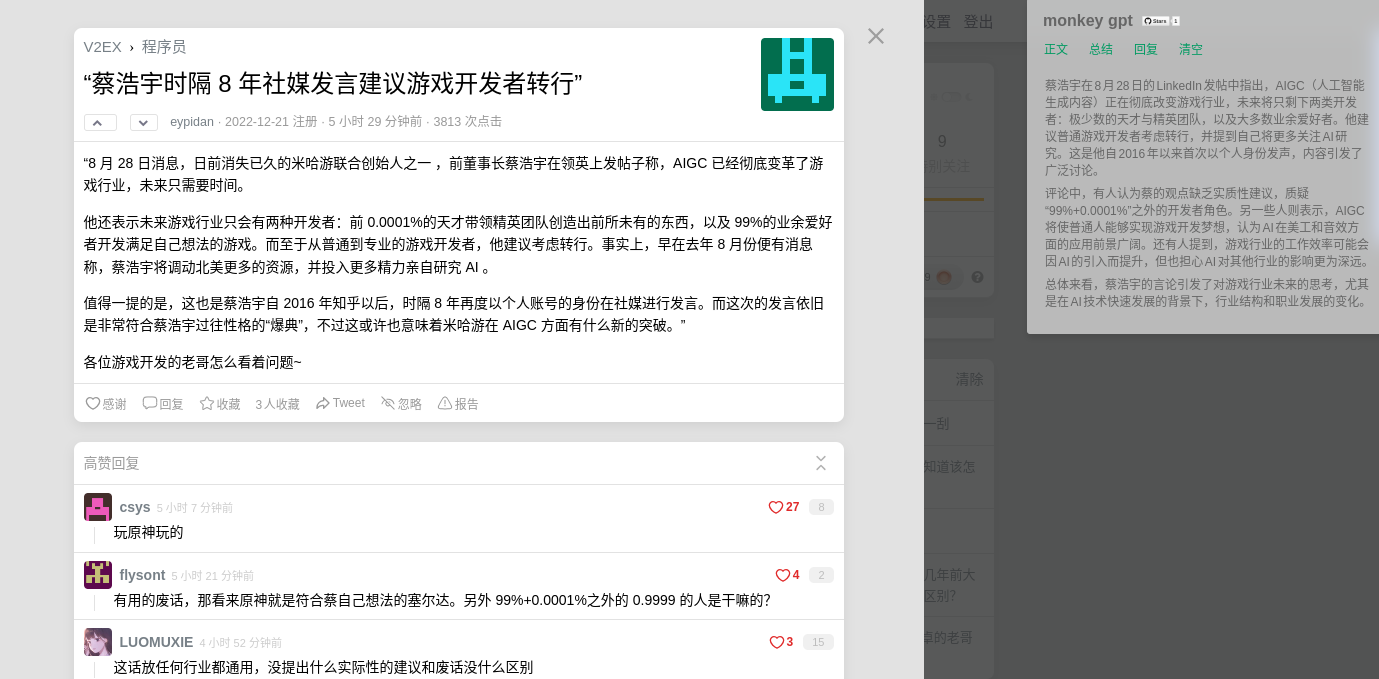
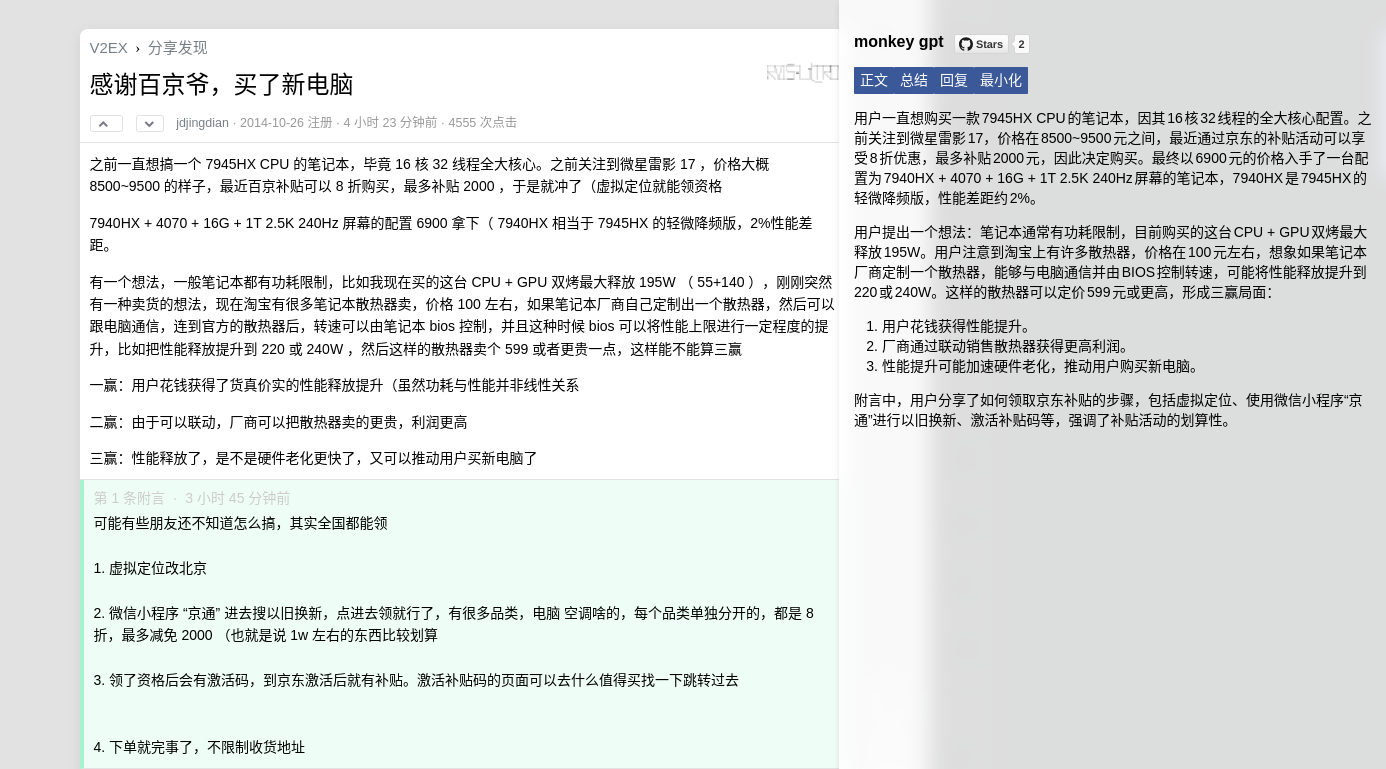
reface: style

diff --git a/script/monkey-gpt.script.user.js b/script/monkey-gpt.script.user.js
@@ -1,14 +1,12 @@
 // ==UserScript==
 // @name       monkey-gpt
 // @namespace  monkeygpt
-// @version    0.0.1
+// @version    0.0.2
 // @author     monkey
 // @icon       https://jisuai.cn/logo.png
 // @match      *://*/*
 // @require    https://cdn.jsdelivr.net/npm/vue@3.4.38/dist/vue.global.prod.js
 // @grant      GM_addStyle
-// @grant      GM_getValue
-// @grant      GM_setValue
 // ==/UserScript==
 
 (e => {
@@ -18,7 +16,7 @@
   }
   const t = document.createElement("style");
   t.textContent = e, document.head.append(t)
-})(" :root{font-synthesis:none;text-rendering:optimizeLegibility;-webkit-font-smoothing:antialiased;-moz-osx-font-smoothing:grayscale;-webkit-text-size-adjust:100%}#monkeygpt{max-width:360px;margin:0 auto;padding:1rem;position:fixed;top:0;right:0;z-index:10000;background:#fff9;-webkit-backdrop-filter:blur(10px);backdrop-filter:blur(10px);border-radius:.3rem;box-shadow:0 4px 6px #0000001a;color:#666;max-height:100vh;overflow:auto;box-sizing:border-box}#monkeygpt .loader{border:8px solid #f3f3f3;border-top:8px solid #3498db;border-radius:50%;width:60px;height:60px;animation:spin 1s linear infinite}#monkeygpt button{border:none;background:none;margin:0 7px 0 0;text-decoration:none;font-weight:700;color:#009a61;cursor:pointer;width:auto;overflow:visible;padding:4px 7px 3px;font-size:12px;line-height:130%;font-family:Lucida Grande,Tahoma,Arial,Verdana,sans-serif}@keyframes spin{0%{transform:rotate(0)}to{transform:rotate(360deg)}}.monkeygpt-header[data-v-479cc38e]{top:0}.loader[data-v-479cc38e]{margin:1rem auto}img[data-v-479cc38e]{height:1rem;margin:0 .5rem}h3[data-v-479cc38e]{margin-block-end:1rem;margin-block-start:.5rem;margin-left:.6rem}.card[data-v-479cc38e]{padding:.8rem} ");
+})(" :root{font-synthesis:none;text-rendering:optimizeLegibility;-webkit-font-smoothing:antialiased;-moz-osx-font-smoothing:grayscale;-webkit-text-size-adjust:100%}#monkeygpt{position:fixed;top:0;right:0;z-index:10000;font-size:14px;line-height:2rem}.monkeygpt-card{position:absolute;top:30vh;right:0;border-radius:.5rem}.monkeygpt-warp{background-color:#fffc;-webkit-backdrop-filter:blur(10px);backdrop-filter:blur(10px);width:30vw;height:100vh;margin:0 auto;box-shadow:0 4px 6px #0000001a;overflow:auto}.monkeygpt-warp .monkeygpt-card{top:0;padding:1.5rem;width:100%;box-sizing:border-box}#monkeygpt xmp,#monkeygpt pre{white-space:pre-wrap;white-space:-moz-pre-wrap;white-space:-pre-wrap;white-space:-o-pre-wrap;word-wrap:break-word}#monkeygpt .loader{border:8px solid #f3f3f3;border-top:8px solid #3498db;border-radius:50%;width:60px;height:60px;animation:spin 1s linear infinite}#monkeygpt button{border:none;background:#3b5998;text-decoration:none;font-weight:700;color:#fff;cursor:pointer;width:auto;overflow:visible;padding:6px;font-size:14px;line-height:1.5rem;font-family:Lucida Grande,Tahoma,Arial,Verdana,sans-serif;border-radius:.1rem}@keyframes spin{0%{transform:rotate(0)}to{transform:rotate(360deg)}}@media screen and (max-width: 1560px){.monkeygpt-warp{width:50vw}}@media screen and (max-width: 720px){.monkeygpt-warp{width:100vw}}@media (prefers-color-scheme: light){:root{color:#213547;background-color:#fff}}.monkeygpt-body[data-v-522bad07]{margin-top:1rem}h3[data-v-522bad07]{display:flex;align-content:center;margin-bottom:1rem}h3 img[data-v-522bad07]{margin-left:1rem} ");
 
 (function (vue) {
   'use strict';
@@ -1889,7 +1887,21 @@
     const app = doc.querySelector("#monkeygpt");
     app.remove();
     let article = new readability.Readability(doc).parse();
-    return article.textContent;
+    let str = replaceEmpty(article.textContent);
+    return str;
+  }
+
+  function replaceEmpty(str) {
+    while (str.includes("  ")) {
+      str = str.replaceAll("  ", " ");
+    }
+    while (str.includes("\n\n")) {
+      str = str.replaceAll("\n\n", "\n");
+    }
+    while (str.includes("		")) {
+      str = str.replaceAll("		", "	");
+    }
+    return str;
   }
   async function chat$1(messages, model = "gpt-4o-mini", apiKey, apiEndpoint = "https://api.openai.com/v1/chat/completions") {
     const headers = {
@@ -2744,8 +2756,8 @@ ${currentText}` : currentText;
           let prevCapZero;
           do {
             prevCapZero = cap[0];
-            let t = ((_a = this.rules.inline._backpedal.exec(cap[0])) == null ? void 0 : _a[0])
-            cap[0] = t ? t : "";
+            let tmp = ((_a = this.rules.inline._backpedal.exec(cap[0])) == null ? void 0 : _a[0])
+            cap[0] = tmp ? tmp : "";
           } while (prevCapZero !== cap[0]);
           text = escape$1(cap[0]);
           if (cap[1] === "www.") {
@@ -4107,11 +4119,17 @@ ${text}</tr>
     }
     return target;
   };
-  const _withScopeId = (n) => (vue.pushScopeId("data-v-479cc38e"), n = n(), vue.popScopeId(), n);
+  const _withScopeId = (n) => (vue.pushScopeId("data-v-522bad07"), n = n(), vue.popScopeId(), n);
   const _hoisted_1 = {
+    class: "monkeygpt-card"
+  };
+  const _hoisted_2 = {
     class: "monkeygpt-header"
   };
-  const _hoisted_2 = /* @__PURE__ */ _withScopeId(() => /* @__PURE__ */ vue.createElementVNode("a", {
+  const _hoisted_3 = {
+    key: 0
+  };
+  const _hoisted_4 = /* @__PURE__ */ _withScopeId(() => /* @__PURE__ */ vue.createElementVNode("a", {
     href: "https://github.com/weekend-project-space/monkey-gpt"
   }, [
     /* @__PURE__ */
@@ -4120,11 +4138,15 @@ ${text}</tr>
       alt: ""
     })
   ], -1));
-  const _hoisted_3 = {
+  const _hoisted_5 = {
+    key: 0,
+    class: "monkeygpt-body"
+  };
+  const _hoisted_6 = {
     key: 0,
     class: "loader"
   };
-  const _hoisted_4 = ["innerHTML"];
+  const _hoisted_7 = ["innerHTML"];
   const _sfc_main$1 = {
     __name: "MonkeyGPT",
     props: {
@@ -4140,6 +4162,7 @@ ${text}</tr>
         loading.value = false;
       }
       async function chat2(chatfun) {
+        clear();
         loading.value = true;
         try {
           txt.value = md2html(await chatfun(getSimpleText()));
@@ -4152,45 +4175,49 @@ ${text}</tr>
       function clear() {
         txt.value = "";
       }
-      setTimeout(() => {
-        console.log(GM_setValue, GM_getValue);
-      }, 3e3);
       window.addEventListener("popstate", clear);
+      const bodyShow = vue.computed(() => loading.value || txt.value);
       return (_ctx, _cache) => {
-        return vue.openBlock(), vue.createElementBlock(vue.Fragment, null, [
+        return vue.openBlock(), vue.createElementBlock("div", {
+          class: vue.normalizeClass({
+            "monkeygpt-warp": bodyShow.value
+          })
+        }, [
           vue.createElementVNode("div", _hoisted_1, [
-            vue.createElementVNode("h3", null, [
-              vue.createTextVNode(vue.toDisplayString(__props.msg) + " ", 1),
-              _hoisted_2
+            vue.createElementVNode("div", _hoisted_2, [
+              bodyShow.value ? (vue.openBlock(), vue.createElementBlock("h3", _hoisted_3, [
+                vue.createTextVNode(vue.toDisplayString(__props.msg) + " ", 1),
+                _hoisted_4
+              ])) : vue.createCommentVNode("", true),
+              vue.createElementVNode("div", null, [
+                vue.createElementVNode("button", {
+                  onClick: getText
+                }, "正文"),
+                vue.createElementVNode("button", {
+                  onClick: _cache[0] || (_cache[0] = ($event) => chat2(vue.unref(summarize)))
+                }, "总结"),
+                vue.createElementVNode("button", {
+                  onClick: _cache[1] || (_cache[1] = ($event) => chat2(vue.unref(ask)))
+                }, "回复"),
+                bodyShow.value ? (vue.openBlock(), vue.createElementBlock("button", {
+                  key: 0,
+                  onClick: clear
+                }, "最小化")) : vue.createCommentVNode("", true)
+              ])
             ]),
-            vue.createElementVNode("div", null, [
-              vue.createElementVNode("button", {
-                onClick: getText
-              }, "正文"),
-              vue.createElementVNode("button", {
-                onClick: _cache[0] || (_cache[0] = ($event) => chat2(vue.unref(summarize)))
-              }, "总结"),
-              vue.createElementVNode("button", {
-                onClick: _cache[1] || (_cache[1] = ($event) => chat2(vue.unref(ask)))
-              }, "回复"),
-              vue.createElementVNode("button", {
-                onClick: clear
-              }, "清空")
-            ])
-          ]),
-          vue.createElementVNode("div", null, [
-            loading.value ? (vue.openBlock(), vue.createElementBlock("div", _hoisted_3)) : txt.value ? (vue.openBlock(), vue.createElementBlock("div", {
-              key: 1,
-              class: "card",
-              innerHTML: txt.value
-            }, null, 8, _hoisted_4)) : vue.createCommentVNode("", true)
+            txt.value || loading.value ? (vue.openBlock(), vue.createElementBlock("div", _hoisted_5, [
+              loading.value ? (vue.openBlock(), vue.createElementBlock("div", _hoisted_6)) : txt.value ? (vue.openBlock(), vue.createElementBlock("div", {
+                key: 1,
+                innerHTML: txt.value
+              }, null, 8, _hoisted_7)) : vue.createCommentVNode("", true)
+            ])) : vue.createCommentVNode("", true)
           ])
-        ], 64);
+        ], 2);
       };
     }
   };
   const MonkeyGPT = /* @__PURE__ */ _export_sfc(_sfc_main$1, [
-    ["__scopeId", "data-v-479cc38e"]
+    ["__scopeId", "data-v-522bad07"]
   ]);
   const _sfc_main = {
     __name: "App",

diff --git a/vite.config.js b/vite.config.js
@@ -16,6 +16,7 @@ export default defineConfig({
         icon: 'https://jisuai.cn/logo.png',
         namespace: 'monkeygpt',
         match: ['*://*/*'],
+        version: '0.0.2'
       },
       build: {
         externalGlobals: {

diff --git a/src/components/MonkeyGPT.vue b/src/components/MonkeyGPT.vue
@@ -71,6 +71,11 @@ const bodyShow = computed(() => loading.value || txt.value);
   margin-top: 1rem;
 }
 h3 {
+  display: flex;
+  align-content: center;
   margin-bottom: 1rem;
+}
+h3 img {
+  margin-left: 1rem;
 }
 </style>

diff --git a/src/style.css b/src/style.css
@@ -11,6 +11,8 @@
   top: 0;
   right: 0;
   z-index: 10000;
+  font-size: 14px;
+  line-height: 2rem;
 }
 
 .monkeygpt-card {
